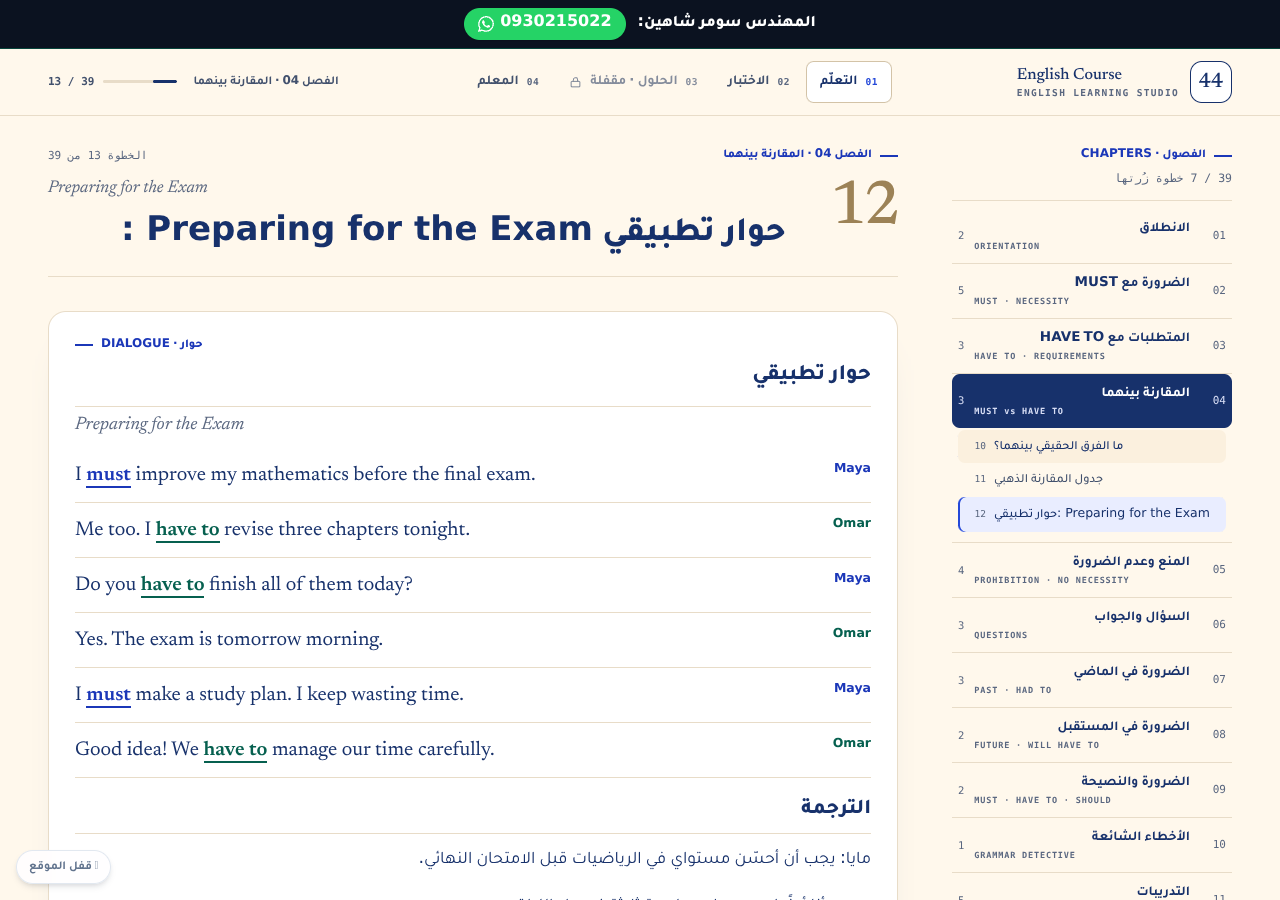
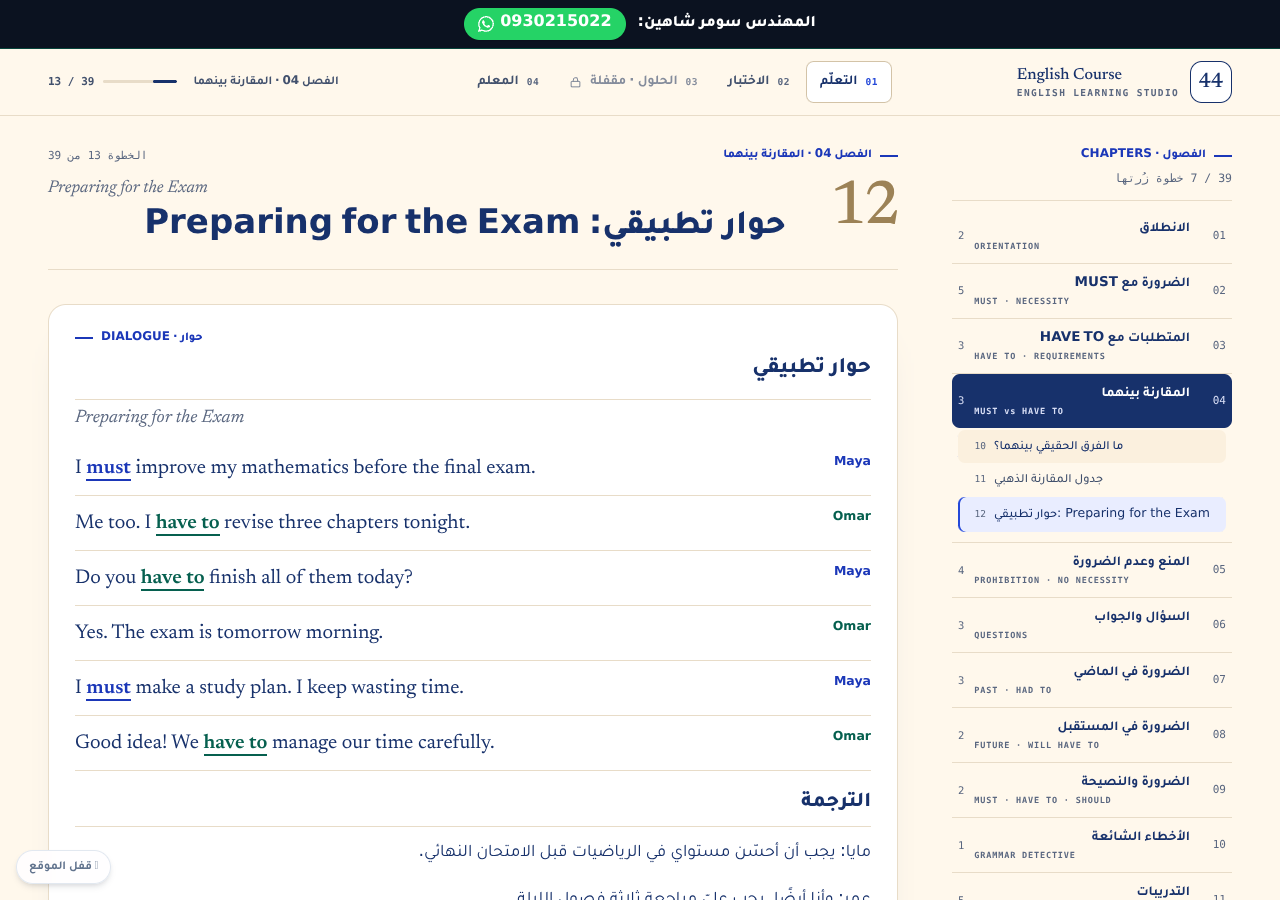
Lesson 44: bidi-safe step titles and a measured reading column
- Title44 keeps "label: English …؟" in one LTR run so the question mark and
  the two alternatives stay in reading order
- the §33 prose column starts at the same edge as its title

diff --git a/src/lessons/lesson44/kit44.tsx b/src/lessons/lesson44/kit44.tsx
@@ -38,6 +38,22 @@ export function Text44({ text, className = '' }: { text: string; className?: str
 }
 
 /**
+ * Step heading. A title shaped "التدريب الأول: MUST أم HAVE TO؟" keeps its Arabic
+ * label and its colon on the right; the bilingual remainder is one LTR run so
+ * the connector stays between the two English alternatives.
+ */
+export function Title44({ text }: { text: string }) {
+  const match = text.match(/^(.+?:)\s+([A-Za-z][\s\S]*)$/);
+  if (!match) return <Text44 text={text} />;
+  return (
+    <>
+      <span className="titleAr44">{match[1]}</span>{' '}
+      <span className="titleEn44" dir="ltr" lang="en"><Text44 text={match[2]} /></span>
+    </>
+  );
+}
+
+/**
  * A bilingual label written as "المستوى الأول: Multiple Choice". Rendered as
  * two isolated runs so the Arabic reads right-to-left and the English label
  * follows it in reading order instead of drifting to the visual left.

diff --git a/src/lessons/lesson44/Steps44.tsx b/src/lessons/lesson44/Steps44.tsx
@@ -1,5 +1,5 @@
 import type { ReactNode } from 'react';
-import { Article44, En44, Glyph44, Label44, Plate44, Text44 } from './kit44';
+import { Article44, En44, Glyph44, Label44, Plate44, Text44, Title44 } from './kit44';
 import { STATIONS_44, section44, splitTitle44, station44, unitId44 } from './ledger44';
 import { LESSON_STEP_COUNT_44, LESSON_TITLE_44 } from './data';
 import {
@@ -211,7 +211,7 @@ export function Steps44({ index, onTest, onTeacher, onNavigate }: {
           <span className="stepFolio44" aria-hidden="true"><bdi dir="ltr">{String(index).padStart(2, '0')}</bdi></span>
           <div className="stepTitleText44">
             {englishTitle && <p className="stepEn44" dir="ltr" lang="en">{englishTitle}</p>}
-            <h2 id="step-title-44" tabIndex={-1}><Text44 text={arTitle} /></h2>
+            <h2 id="step-title-44" tabIndex={-1}><Title44 text={arTitle} /></h2>
           </div>
         </div>
       </header>

diff --git a/src/lessons/lesson44/lesson44.css b/src/lessons/lesson44/lesson44.css
@@ -97,6 +97,7 @@
 .lesson44 .flip44 { transform: rotate(180deg); }
 .lesson44 .en44 { unicode-bidi: isolate; }
 .lesson44 .font-en { margin-inline-end: .28em; }
+.lesson44 .titleEn44 { unicode-bidi: isolate; }
 .lesson44 .labelEn44 { unicode-bidi: isolate; direction: ltr; margin-inline-end: .55em; font-family: var(--mono); font-size: .92em; letter-spacing: .01em; }
 .lesson44 .levelHead44 h3 .labelEn44 { display: inline; }
 
@@ -645,7 +646,7 @@
   font: 500 clamp(27px, 3vw, 36px)/1.2 var(--serif); color: var(--ink);
   margin: 10px 0 18px; direction: ltr; text-align: left;
 }
-.lesson44 .readerBody44 { max-width: 63ch; }
+.lesson44 .readerBody44 { max-width: 63ch; margin-inline-start: auto; }
 .lesson44 .readerLine44 {
   font: 400 19px/1.75 var(--serif); color: var(--ink-2);
   margin-bottom: 12px; text-align: left;
